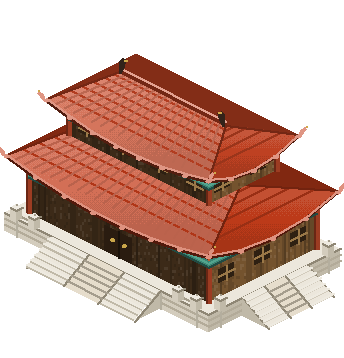
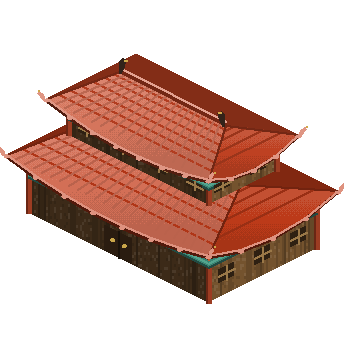
Escaleras como capa baja + fix glitch de muros al pasar un mecenas
- Separo zócalo/escalinata del cuerpo en sprites aparte (bld-X-base): se pintan
  sobre el suelo y por debajo del resto (decoración, muros, edificios, mecenas),
  así dejan de superponerse a elementos que tienen delante.
- hac-iso frame(): solo repinta las estructuras DELANTE de un actor; repintar las
  de detrás dibujaba una estructura trasera sobre su vecina delantera (muros y
  edificios "bugeados" al pasar un mecenas).
- Regenerados los 6 edificios con escalinata (cuerpo + base) y la meta.

Changed region(s): [[0.0, 0.5531, 1.0, 0.9218]]

diff --git a/assets/js/iso-sprites-meta.js b/assets/js/iso-sprites-meta.js
@@ -1,2 +1,2 @@
 /* Generado por tools/gen-iso-sprites.js — NO editar a mano. */
-window.ISO_SPRITES_META = {"bld-pabellon-0":{"ox":64,"oy":88,"w":92,"h":144},"bld-pabellon-1":{"ox":28,"oy":88,"w":92,"h":144},"bld-pabellon-2":{"ox":64,"oy":88,"w":92,"h":144},"bld-pabellon-3":{"ox":28,"oy":88,"w":92,"h":144},"bld-torre-0":{"ox":64,"oy":120,"w":92,"h":176},"bld-torre-1":{"ox":28,"oy":120,"w":92,"h":176},"bld-torre-2":{"ox":64,"oy":120,"w":92,"h":176},"bld-torre-3":{"ox":28,"oy":120,"w":92,"h":176},"bld-pagoda-0":{"ox":64,"oy":134,"w":128,"h":208},"bld-pagoda-1":{"ox":64,"oy":134,"w":128,"h":208},"bld-pagoda-2":{"ox":64,"oy":134,"w":128,"h":208},"bld-pagoda-3":{"ox":64,"oy":134,"w":128,"h":208},"bld-galeria-0":{"ox":100,"oy":84,"w":128,"h":158},"bld-galeria-1":{"ox":28,"oy":84,"w":128,"h":158},"bld-galeria-2":{"ox":100,"oy":84,"w":128,"h":158},"bld-galeria-3":{"ox":28,"oy":84,"w":128,"h":158},"bld-armeria-0":{"ox":64,"oy":82,"w":128,"h":156},"bld-armeria-1":{"ox":64,"oy":82,"w":128,"h":156},"bld-armeria-2":{"ox":64,"oy":82,"w":128,"h":156},"bld-armeria-3":{"ox":64,"oy":82,"w":128,"h":156},"bld-ala-0":{"ox":100,"oy":94,"w":164,"h":186},"bld-ala-1":{"ox":64,"oy":94,"w":164,"h":186},"bld-ala-2":{"ox":100,"oy":94,"w":164,"h":186},"bld-ala-3":{"ox":64,"oy":94,"w":164,"h":186},"bld-templo-0":{"ox":100,"oy":140,"w":164,"h":232},"bld-templo-1":{"ox":64,"oy":140,"w":164,"h":232},"bld-templo-2":{"ox":100,"oy":140,"w":164,"h":232},"bld-templo-3":{"ox":64,"oy":140,"w":164,"h":232},"bld-gran-pagoda-0":{"ox":136,"oy":240,"w":200,"h":350},"bld-gran-pagoda-1":{"ox":64,"oy":240,"w":200,"h":350},"bld-gran-pagoda-2":{"ox":136,"oy":240,"w":200,"h":350},"bld-gran-pagoda-3":{"ox":64,"oy":240,"w":200,"h":350},"bld-salon-0":{"ox":100,"oy":110,"w":200,"h":220},"bld-salon-1":{"ox":100,"oy":110,"w":200,"h":220},"bld-salon-2":{"ox":100,"oy":110,"w":200,"h":220},"bld-salon-3":{"ox":100,"oy":110,"w":200,"h":220},"bld-templo-ancestral-0":{"ox":136,"oy":148,"w":236,"h":276},"bld-templo-ancestral-1":{"ox":100,"oy":148,"w":236,"h":276},"bld-templo-ancestral-2":{"ox":136,"oy":148,"w":236,"h":276},"bld-templo-ancestral-3":{"ox":100,"oy":148,"w":236,"h":276},"bld-salon-gran-0":{"ox":100,"oy":150,"w":236,"h":278},"bld-salon-gran-1":{"ox":136,"oy":150,"w":236,"h":278},"bld-salon-gran-2":{"ox":100,"oy":150,"w":236,"h":278},"bld-salon-gran-3":{"ox":136,"oy":150,"w":236,"h":278},"bld-pabellon-gran-0":{"ox":136,"oy":106,"w":236,"h":234},"bld-pabellon-gran-1":{"ox":100,"oy":106,"w":236,"h":234},"bld-pabellon-gran-2":{"ox":136,"oy":106,"w":236,"h":234},"bld-pabellon-gran-3":{"ox":100,"oy":106,"w":236,"h":234},"bld-salon-corte-0":{"ox":208,"oy":160,"w":308,"h":324},"bld-salon-corte-1":{"ox":100,"oy":160,"w":308,"h":324},"bld-salon-corte-2":{"ox":208,"oy":160,"w":308,"h":324},"bld-salon-corte-3":{"ox":100,"oy":160,"w":308,"h":324},"bld-palacio-0":{"ox":208,"oy":176,"w":344,"h":358},"bld-palacio-1":{"ox":136,"oy":176,"w":344,"h":358},"bld-palacio-2":{"ox":208,"oy":176,"w":344,"h":358},"bld-palacio-3":{"ox":136,"oy":176,"w":344,"h":358},"bld-salon-largo-0":{"ox":172,"oy":158,"w":272,"h":304},"bld-salon-largo-1":{"ox":100,"oy":158,"w":272,"h":304},"bld-salon-largo-2":{"ox":172,"oy":158,"w":272,"h":304},"bld-salon-largo-3":{"ox":100,"oy":158,"w":272,"h":304},"bld-salon-banquete-0":{"ox":244,"oy":168,"w":344,"h":350},"bld-salon-banquete-1":{"ox":100,"oy":168,"w":344,"h":350},"bld-salon-banquete-2":{"ox":244,"oy":168,"w":344,"h":350},"bld-salon-banquete-3":{"ox":100,"oy":168,"w":344,"h":350},"bld-cuartel-0":{"ox":172,"oy":92,"w":308,"h":256},"bld-cuartel-1":{"ox":136,"oy":92,"w":308,"h":256},"bld-cuartel-2":{"ox":172,"oy":92,"w":308,"h":256},"bld-cuartel-3":{"ox":136,"oy":92,"w":308,"h":256},"bld-gran-palacio-0":{"ox":244,"oy":226,"w":380,"h":426},"bld-gran-palacio-1":{"ox":136,"oy":226,"w":380,"h":426},"bld-gran-palacio-2":{"ox":244,"oy":226,"w":380,"h":426},"bld-gran-palacio-3":{"ox":136,"oy":226,"w":380,"h":426},"bld-salon-doble-0":{"ox":280,"oy":170,"w":416,"h":388},"bld-salon-doble-1":{"ox":136,"oy":170,"w":416,"h":388},"bld-salon-doble-2":{"ox":280,"oy":170,"w":416,"h":388},"bld-salon-doble-3":{"ox":136,"oy":170,"w":416,"h":388},"bld-gran-recinto-0":{"ox":280,"oy":228,"w":452,"h":464},"bld-gran-recinto-1":{"ox":172,"oy":228,"w":452,"h":464},"bld-gran-recinto-2":{"ox":280,"oy":228,"w":452,"h":464},"bld-gran-recinto-3":{"ox":172,"oy":228,"w":452,"h":464},"bld-ala-l-0":{"ox":100,"oy":94,"w":200,"h":204},"bld-ala-l-1":{"ox":100,"oy":94,"w":200,"h":204},"bld-ala-l-2":{"ox":100,"oy":94,"w":200,"h":204},"bld-ala-l-3":{"ox":100,"oy":94,"w":200,"h":204},"bld-ala-l-mayor-0":{"ox":136,"oy":100,"w":272,"h":246},"bld-ala-l-mayor-1":{"ox":136,"oy":100,"w":272,"h":246},"bld-ala-l-mayor-2":{"ox":136,"oy":100,"w":272,"h":246},"bld-ala-l-mayor-3":{"ox":136,"oy":100,"w":272,"h":246},"bld-patio-u-0":{"ox":100,"oy":100,"w":272,"h":246},"bld-patio-u-1":{"ox":172,"oy":100,"w":272,"h":246},"bld-patio-u-2":{"ox":100,"oy":100,"w":272,"h":246},"bld-patio-u-3":{"ox":172,"oy":100,"w":272,"h":246},"bld-patio-o-0":{"ox":136,"oy":106,"w":272,"h":252},"bld-patio-o-1":{"ox":136,"oy":106,"w":272,"h":252},"bld-patio-o-2":{"ox":136,"oy":106,"w":272,"h":252},"bld-patio-o-3":{"ox":136,"oy":106,"w":272,"h":252},"bld-bonsai-0":{"ox":42,"oy":64,"w":84,"h":116},"bld-bonsai-1":{"ox":42,"oy":64,"w":84,"h":116},"bld-bonsai-2":{"ox":42,"oy":64,"w":84,"h":116},"bld-bonsai-3":{"ox":42,"oy":64,"w":84,"h":116},"bld-jardin-0":{"ox":114,"oy":64,"w":192,"h":170},"bld-jardin-1":{"ox":78,"oy":64,"w":192,"h":170},"bld-jardin-2":{"ox":114,"oy":64,"w":192,"h":170},"bld-jardin-3":{"ox":78,"oy":64,"w":192,"h":170},"bld-jardin-flores-0":{"ox":150,"oy":64,"w":228,"h":188},"bld-jardin-flores-1":{"ox":78,"oy":64,"w":228,"h":188},"bld-jardin-flores-2":{"ox":150,"oy":64,"w":228,"h":188},"bld-jardin-flores-3":{"ox":78,"oy":64,"w":228,"h":188},"bld-estanque-0":{"ox":114,"oy":64,"w":228,"h":188},"bld-estanque-1":{"ox":114,"oy":64,"w":228,"h":188},"bld-estanque-2":{"ox":114,"oy":64,"w":228,"h":188},"bld-estanque-3":{"ox":114,"oy":64,"w":228,"h":188},"bld-lago-0":{"ox":150,"oy":64,"w":300,"h":224},"bld-lago-1":{"ox":150,"oy":64,"w":300,"h":224},"bld-lago-2":{"ox":150,"oy":64,"w":300,"h":224},"bld-lago-3":{"ox":150,"oy":64,"w":300,"h":224},"bld-farol-0":{"ox":54,"oy":64,"w":108,"h":120},"bld-farol-1":{"ox":54,"oy":64,"w":108,"h":120},"bld-farol-2":{"ox":54,"oy":64,"w":108,"h":120},"bld-farol-3":{"ox":54,"oy":64,"w":108,"h":120},"bld-antorcha-0":{"ox":54,"oy":80,"w":108,"h":136},"bld-antorcha-1":{"ox":54,"oy":80,"w":108,"h":136},"bld-antorcha-2":{"ox":54,"oy":80,"w":108,"h":136},"bld-antorcha-3":{"ox":54,"oy":80,"w":108,"h":136},"bld-brasero-0":{"ox":54,"oy":52,"w":108,"h":108},"bld-brasero-1":{"ox":54,"oy":52,"w":108,"h":108},"bld-brasero-2":{"ox":54,"oy":52,"w":108,"h":108},"bld-brasero-3":{"ox":54,"oy":52,"w":108,"h":108},"bld-ding-0":{"ox":54,"oy":56,"w":108,"h":112},"bld-ding-1":{"ox":54,"oy":56,"w":108,"h":112},"bld-ding-2":{"ox":54,"oy":56,"w":108,"h":112},"bld-ding-3":{"ox":54,"oy":56,"w":108,"h":112},"bld-estandarte-0":{"ox":54,"oy":92,"w":108,"h":148},"bld-estandarte-1":{"ox":54,"oy":92,"w":108,"h":148},"bld-estandarte-2":{"ox":54,"oy":92,"w":108,"h":148},"bld-estandarte-3":{"ox":54,"oy":92,"w":108,"h":148},"bld-pabellon-te-0":{"ox":54,"oy":76,"w":108,"h":132},"bld-pabellon-te-1":{"ox":54,"oy":76,"w":108,"h":132},"bld-pabellon-te-2":{"ox":54,"oy":76,"w":108,"h":132},"bld-pabellon-te-3":{"ox":54,"oy":76,"w":108,"h":132},"bld-yingbi-0":{"ox":102,"oy":76,"w":134,"h":152},"bld-yingbi-1":{"ox":30,"oy":76,"w":134,"h":152},"bld-yingbi-2":{"ox":102,"oy":76,"w":134,"h":152},"bld-yingbi-3":{"ox":30,"oy":76,"w":134,"h":152},"bld-chuihuamen-0":{"ox":66,"oy":68,"w":98,"h":126},"bld-chuihuamen-1":{"ox":30,"oy":68,"w":98,"h":126},"bld-chuihuamen-2":{"ox":66,"oy":68,"w":98,"h":126},"bld-chuihuamen-3":{"ox":30,"oy":68,"w":98,"h":126},"bld-muralla-0":{"ox":30,"oy":52,"w":62,"h":92},"bld-muralla-1":{"ox":30,"oy":52,"w":62,"h":92},"bld-muralla-2":{"ox":30,"oy":52,"w":62,"h":92},"bld-muralla-3":{"ox":30,"oy":52,"w":62,"h":92},"bld-porton-0":{"ox":30,"oy":70,"w":62,"h":110},"bld-porton-1":{"ox":30,"oy":70,"w":62,"h":110},"bld-porton-2":{"ox":30,"oy":70,"w":62,"h":110},"bld-porton-3":{"ox":30,"oy":70,"w":62,"h":110},"tile-grass":{"ox":38,"oy":4,"w":76,"h":44},"tile-grass2":{"ox":38,"oy":4,"w":76,"h":44}};
+window.ISO_SPRITES_META = {"bld-pabellon-0":{"ox":64,"oy":88,"w":92,"h":144},"bld-pabellon-1":{"ox":28,"oy":88,"w":92,"h":144},"bld-pabellon-2":{"ox":64,"oy":88,"w":92,"h":144},"bld-pabellon-3":{"ox":28,"oy":88,"w":92,"h":144},"bld-torre-0":{"ox":64,"oy":120,"w":92,"h":176},"bld-torre-1":{"ox":28,"oy":120,"w":92,"h":176},"bld-torre-2":{"ox":64,"oy":120,"w":92,"h":176},"bld-torre-3":{"ox":28,"oy":120,"w":92,"h":176},"bld-pagoda-0":{"ox":64,"oy":134,"w":128,"h":208},"bld-pagoda-1":{"ox":64,"oy":134,"w":128,"h":208},"bld-pagoda-2":{"ox":64,"oy":134,"w":128,"h":208},"bld-pagoda-3":{"ox":64,"oy":134,"w":128,"h":208},"bld-galeria-0":{"ox":100,"oy":84,"w":128,"h":158},"bld-galeria-1":{"ox":28,"oy":84,"w":128,"h":158},"bld-galeria-2":{"ox":100,"oy":84,"w":128,"h":158},"bld-galeria-3":{"ox":28,"oy":84,"w":128,"h":158},"bld-armeria-0":{"ox":64,"oy":82,"w":128,"h":156},"bld-armeria-1":{"ox":64,"oy":82,"w":128,"h":156},"bld-armeria-2":{"ox":64,"oy":82,"w":128,"h":156},"bld-armeria-3":{"ox":64,"oy":82,"w":128,"h":156},"bld-ala-0":{"ox":100,"oy":94,"w":164,"h":186},"bld-ala-1":{"ox":64,"oy":94,"w":164,"h":186},"bld-ala-2":{"ox":100,"oy":94,"w":164,"h":186},"bld-ala-3":{"ox":64,"oy":94,"w":164,"h":186},"bld-templo-0":{"ox":100,"oy":140,"w":164,"h":232},"bld-templo-1":{"ox":64,"oy":140,"w":164,"h":232},"bld-templo-2":{"ox":100,"oy":140,"w":164,"h":232},"bld-templo-3":{"ox":64,"oy":140,"w":164,"h":232},"bld-gran-pagoda-0":{"ox":136,"oy":240,"w":200,"h":350},"bld-gran-pagoda-1":{"ox":64,"oy":240,"w":200,"h":350},"bld-gran-pagoda-2":{"ox":136,"oy":240,"w":200,"h":350},"bld-gran-pagoda-3":{"ox":64,"oy":240,"w":200,"h":350},"bld-salon-0":{"ox":100,"oy":110,"w":200,"h":220},"bld-salon-1":{"ox":100,"oy":110,"w":200,"h":220},"bld-salon-2":{"ox":100,"oy":110,"w":200,"h":220},"bld-salon-3":{"ox":100,"oy":110,"w":200,"h":220},"bld-templo-ancestral-0":{"ox":136,"oy":148,"w":236,"h":276},"bld-templo-ancestral-1":{"ox":100,"oy":148,"w":236,"h":276},"bld-templo-ancestral-2":{"ox":136,"oy":148,"w":236,"h":276},"bld-templo-ancestral-3":{"ox":100,"oy":148,"w":236,"h":276},"bld-salon-gran-0":{"ox":100,"oy":150,"w":236,"h":278},"bld-salon-gran-1":{"ox":136,"oy":150,"w":236,"h":278},"bld-salon-gran-2":{"ox":100,"oy":150,"w":236,"h":278},"bld-salon-gran-3":{"ox":136,"oy":150,"w":236,"h":278},"bld-pabellon-gran-0":{"ox":136,"oy":106,"w":236,"h":234},"bld-pabellon-gran-1":{"ox":100,"oy":106,"w":236,"h":234},"bld-pabellon-gran-2":{"ox":136,"oy":106,"w":236,"h":234},"bld-pabellon-gran-3":{"ox":100,"oy":106,"w":236,"h":234},"bld-salon-corte-0":{"ox":208,"oy":160,"w":308,"h":324},"bld-salon-corte-base-0":{"ox":208,"oy":160,"w":308,"h":324},"bld-salon-corte-1":{"ox":100,"oy":160,"w":308,"h":324},"bld-salon-corte-base-1":{"ox":100,"oy":160,"w":308,"h":324},"bld-salon-corte-2":{"ox":208,"oy":160,"w":308,"h":324},"bld-salon-corte-base-2":{"ox":208,"oy":160,"w":308,"h":324},"bld-salon-corte-3":{"ox":100,"oy":160,"w":308,"h":324},"bld-salon-corte-base-3":{"ox":100,"oy":160,"w":308,"h":324},"bld-palacio-0":{"ox":208,"oy":176,"w":344,"h":358},"bld-palacio-base-0":{"ox":208,"oy":176,"w":344,"h":358},"bld-palacio-1":{"ox":136,"oy":176,"w":344,"h":358},"bld-palacio-base-1":{"ox":136,"oy":176,"w":344,"h":358},"bld-palacio-2":{"ox":208,"oy":176,"w":344,"h":358},"bld-palacio-base-2":{"ox":208,"oy":176,"w":344,"h":358},"bld-palacio-3":{"ox":136,"oy":176,"w":344,"h":358},"bld-palacio-base-3":{"ox":136,"oy":176,"w":344,"h":358},"bld-salon-largo-0":{"ox":172,"oy":158,"w":272,"h":304},"bld-salon-largo-1":{"ox":100,"oy":158,"w":272,"h":304},"bld-salon-largo-2":{"ox":172,"oy":158,"w":272,"h":304},"bld-salon-largo-3":{"ox":100,"oy":158,"w":272,"h":304},"bld-salon-banquete-0":{"ox":244,"oy":168,"w":344,"h":350},"bld-salon-banquete-base-0":{"ox":244,"oy":168,"w":344,"h":350},"bld-salon-banquete-1":{"ox":100,"oy":168,"w":344,"h":350},"bld-salon-banquete-base-1":{"ox":100,"oy":168,"w":344,"h":350},"bld-salon-banquete-2":{"ox":244,"oy":168,"w":344,"h":350},"bld-salon-banquete-base-2":{"ox":244,"oy":168,"w":344,"h":350},"bld-salon-banquete-3":{"ox":100,"oy":168,"w":344,"h":350},"bld-salon-banquete-base-3":{"ox":100,"oy":168,"w":344,"h":350},"bld-cuartel-0":{"ox":172,"oy":92,"w":308,"h":256},"bld-cuartel-1":{"ox":136,"oy":92,"w":308,"h":256},"bld-cuartel-2":{"ox":172,"oy":92,"w":308,"h":256},"bld-cuartel-3":{"ox":136,"oy":92,"w":308,"h":256},"bld-gran-palacio-0":{"ox":244,"oy":226,"w":380,"h":426},"bld-gran-palacio-base-0":{"ox":244,"oy":226,"w":380,"h":426},"bld-gran-palacio-1":{"ox":136,"oy":226,"w":380,"h":426},"bld-gran-palacio-base-1":{"ox":136,"oy":226,"w":380,"h":426},"bld-gran-palacio-2":{"ox":244,"oy":226,"w":380,"h":426},"bld-gran-palacio-base-2":{"ox":244,"oy":226,"w":380,"h":426},"bld-gran-palacio-3":{"ox":136,"oy":226,"w":380,"h":426},"bld-gran-palacio-base-3":{"ox":136,"oy":226,"w":380,"h":426},"bld-salon-doble-0":{"ox":280,"oy":170,"w":416,"h":388},"bld-salon-doble-base-0":{"ox":280,"oy":170,"w":416,"h":388},"bld-salon-doble-1":{"ox":136,"oy":170,"w":416,"h":388},"bld-salon-doble-base-1":{"ox":136,"oy":170,"w":416,"h":388},"bld-salon-doble-2":{"ox":280,"oy":170,"w":416,"h":388},"bld-salon-doble-base-2":{"ox":280,"oy":170,"w":416,"h":388},"bld-salon-doble-3":{"ox":136,"oy":170,"w":416,"h":388},"bld-salon-doble-base-3":{"ox":136,"oy":170,"w":416,"h":388},"bld-gran-recinto-0":{"ox":280,"oy":228,"w":452,"h":464},"bld-gran-recinto-base-0":{"ox":280,"oy":228,"w":452,"h":464},"bld-gran-recinto-1":{"ox":172,"oy":228,"w":452,"h":464},"bld-gran-recinto-base-1":{"ox":172,"oy":228,"w":452,"h":464},"bld-gran-recinto-2":{"ox":280,"oy":228,"w":452,"h":464},"bld-gran-recinto-base-2":{"ox":280,"oy":228,"w":452,"h":464},"bld-gran-recinto-3":{"ox":172,"oy":228,"w":452,"h":464},"bld-gran-recinto-base-3":{"ox":172,"oy":228,"w":452,"h":464},"bld-ala-l-0":{"ox":100,"oy":94,"w":200,"h":204},"bld-ala-l-1":{"ox":100,"oy":94,"w":200,"h":204},"bld-ala-l-2":{"ox":100,"oy":94,"w":200,"h":204},"bld-ala-l-3":{"ox":100,"oy":94,"w":200,"h":204},"bld-ala-l-mayor-0":{"ox":136,"oy":100,"w":272,"h":246},"bld-ala-l-mayor-1":{"ox":136,"oy":100,"w":272,"h":246},"bld-ala-l-mayor-2":{"ox":136,"oy":100,"w":272,"h":246},"bld-ala-l-mayor-3":{"ox":136,"oy":100,"w":272,"h":246},"bld-patio-u-0":{"ox":100,"oy":100,"w":272,"h":246},"bld-patio-u-1":{"ox":172,"oy":100,"w":272,"h":246},"bld-patio-u-2":{"ox":100,"oy":100,"w":272,"h":246},"bld-patio-u-3":{"ox":172,"oy":100,"w":272,"h":246},"bld-patio-o-0":{"ox":136,"oy":106,"w":272,"h":252},"bld-patio-o-1":{"ox":136,"oy":106,"w":272,"h":252},"bld-patio-o-2":{"ox":136,"oy":106,"w":272,"h":252},"bld-patio-o-3":{"ox":136,"oy":106,"w":272,"h":252},"bld-bonsai-0":{"ox":42,"oy":64,"w":84,"h":116},"bld-bonsai-1":{"ox":42,"oy":64,"w":84,"h":116},"bld-bonsai-2":{"ox":42,"oy":64,"w":84,"h":116},"bld-bonsai-3":{"ox":42,"oy":64,"w":84,"h":116},"bld-jardin-0":{"ox":114,"oy":64,"w":192,"h":170},"bld-jardin-1":{"ox":78,"oy":64,"w":192,"h":170},"bld-jardin-2":{"ox":114,"oy":64,"w":192,"h":170},"bld-jardin-3":{"ox":78,"oy":64,"w":192,"h":170},"bld-jardin-flores-0":{"ox":150,"oy":64,"w":228,"h":188},"bld-jardin-flores-1":{"ox":78,"oy":64,"w":228,"h":188},"bld-jardin-flores-2":{"ox":150,"oy":64,"w":228,"h":188},"bld-jardin-flores-3":{"ox":78,"oy":64,"w":228,"h":188},"bld-estanque-0":{"ox":114,"oy":64,"w":228,"h":188},"bld-estanque-1":{"ox":114,"oy":64,"w":228,"h":188},"bld-estanque-2":{"ox":114,"oy":64,"w":228,"h":188},"bld-estanque-3":{"ox":114,"oy":64,"w":228,"h":188},"bld-lago-0":{"ox":150,"oy":64,"w":300,"h":224},"bld-lago-1":{"ox":150,"oy":64,"w":300,"h":224},"bld-lago-2":{"ox":150,"oy":64,"w":300,"h":224},"bld-lago-3":{"ox":150,"oy":64,"w":300,"h":224},"bld-farol-0":{"ox":54,"oy":64,"w":108,"h":120},"bld-farol-1":{"ox":54,"oy":64,"w":108,"h":120},"bld-farol-2":{"ox":54,"oy":64,"w":108,"h":120},"bld-farol-3":{"ox":54,"oy":64,"w":108,"h":120},"bld-antorcha-0":{"ox":54,"oy":80,"w":108,"h":136},"bld-antorcha-1":{"ox":54,"oy":80,"w":108,"h":136},"bld-antorcha-2":{"ox":54,"oy":80,"w":108,"h":136},"bld-antorcha-3":{"ox":54,"oy":80,"w":108,"h":136},"bld-brasero-0":{"ox":54,"oy":52,"w":108,"h":108},"bld-brasero-1":{"ox":54,"oy":52,"w":108,"h":108},"bld-brasero-2":{"ox":54,"oy":52,"w":108,"h":108},"bld-brasero-3":{"ox":54,"oy":52,"w":108,"h":108},"bld-ding-0":{"ox":54,"oy":56,"w":108,"h":112},"bld-ding-1":{"ox":54,"oy":56,"w":108,"h":112},"bld-ding-2":{"ox":54,"oy":56,"w":108,"h":112},"bld-ding-3":{"ox":54,"oy":56,"w":108,"h":112},"bld-estandarte-0":{"ox":54,"oy":92,"w":108,"h":148},"bld-estandarte-1":{"ox":54,"oy":92,"w":108,"h":148},"bld-estandarte-2":{"ox":54,"oy":92,"w":108,"h":148},"bld-estandarte-3":{"ox":54,"oy":92,"w":108,"h":148},"bld-pabellon-te-0":{"ox":54,"oy":76,"w":108,"h":132},"bld-pabellon-te-1":{"ox":54,"oy":76,"w":108,"h":132},"bld-pabellon-te-2":{"ox":54,"oy":76,"w":108,"h":132},"bld-pabellon-te-3":{"ox":54,"oy":76,"w":108,"h":132},"bld-yingbi-0":{"ox":102,"oy":76,"w":134,"h":152},"bld-yingbi-1":{"ox":30,"oy":76,"w":134,"h":152},"bld-yingbi-2":{"ox":102,"oy":76,"w":134,"h":152},"bld-yingbi-3":{"ox":30,"oy":76,"w":134,"h":152},"bld-chuihuamen-0":{"ox":66,"oy":68,"w":98,"h":126},"bld-chuihuamen-1":{"ox":30,"oy":68,"w":98,"h":126},"bld-chuihuamen-2":{"ox":66,"oy":68,"w":98,"h":126},"bld-chuihuamen-3":{"ox":30,"oy":68,"w":98,"h":126},"bld-muralla-0":{"ox":30,"oy":52,"w":62,"h":92},"bld-muralla-1":{"ox":30,"oy":52,"w":62,"h":92},"bld-muralla-2":{"ox":30,"oy":52,"w":62,"h":92},"bld-muralla-3":{"ox":30,"oy":52,"w":62,"h":92},"bld-porton-0":{"ox":30,"oy":70,"w":62,"h":110},"bld-porton-1":{"ox":30,"oy":70,"w":62,"h":110},"bld-porton-2":{"ox":30,"oy":70,"w":62,"h":110},"bld-porton-3":{"ox":30,"oy":70,"w":62,"h":110},"tile-grass":{"ox":38,"oy":4,"w":76,"h":44},"tile-grass2":{"ox":38,"oy":4,"w":76,"h":44}};

diff --git a/tools/gen-iso-sprites.js b/tools/gen-iso-sprites.js
@@ -129,7 +129,9 @@ const PAL = {
 
 // ── Dibujo de un edificio ────────────────────────────────────────────────
 // cfg: { w, h, roof, baseH, bodyH, roofH, stories, bodyH2, roofH2 }
-function drawBuilding(cfg) {
+function drawBuilding(cfg, layer) {
+  layer = layer || 'all';
+  const wantBase = layer !== 'body', wantBody = layer !== 'base';
   const { w, h, roof } = cfg;
   const baseH = cfg.baseH ?? 5;
   const bodyH = cfg.bodyH ?? 14;
@@ -323,20 +325,21 @@ function drawBuilding(cfg) {
   if (cfg.wings) {
     const order = cfg.wings.slice().sort((a,b)=>(a.x1+a.y1)-(b.x1+b.y1)||(a.x0+a.y0)-(b.x0+b.y0));
     order.forEach(wg=>{
-      prism(wg.x0,wg.y0,wg.x1,wg.y1, ovB, 0, baseH, PAL.stoneT, dark(PAL.stone,.06), PAL.stone, PAL.stoneD, 'stone');
-      body(wg.x0,wg.y0,wg.x1,wg.y1, baseH, bodyH, wg.door);
-      hipRoof(wg.x0,wg.y0,wg.x1,wg.y1, baseH+bodyH, roofH, roof);
+      if (wantBase) prism(wg.x0,wg.y0,wg.x1,wg.y1, ovB, 0, baseH, PAL.stoneT, dark(PAL.stone,.06), PAL.stone, PAL.stoneD, 'stone');
+      if (wantBody) { body(wg.x0,wg.y0,wg.x1,wg.y1, baseH, bodyH, wg.door); hipRoof(wg.x0,wg.y0,wg.x1,wg.y1, baseH+bodyH, roofH, roof); }
     });
     return { buf, ox: OX, oy: OY };
   }
 
   let z = 0;
-  if (cfg.stairs) {
-    prism(0,0,w-1,h-1, tov, 0, baseH, MB.t, MB.l, MB.r, MB.edge);   // plinto de mármol
-    marbleCourses((h-1)+tov, (w-1)+tov);
-    stairFlight('S'); stairFlight('E');
-  } else {
-    prism(0,0,w-1,h-1, ovB, z, z+baseH, PAL.stoneT, dark(PAL.stone,.06), PAL.stone, PAL.stoneD, 'stone');
+  if (wantBase) {
+    if (cfg.stairs) {
+      prism(0,0,w-1,h-1, tov, 0, baseH, MB.t, MB.l, MB.r, MB.edge);
+      marbleCourses((h-1)+tov, (w-1)+tov);
+      stairFlight('S'); stairFlight('E');
+    } else {
+      prism(0,0,w-1,h-1, ovB, z, z+baseH, PAL.stoneT, dark(PAL.stone,.06), PAL.stone, PAL.stoneD, 'stone');
+    }
   }
   z += baseH;
 
@@ -384,23 +387,20 @@ function drawBuilding(cfg) {
     } else { for(let gx=x0; gx<x1; gx++) winY(gx); }
   }
 
-  body(0,0,w-1,h-1, z, bodyH, cfg.door);
-  hipRoof(0,0,w-1,h-1, z+bodyH, roofH, roof);
-
-  // Pisos superiores: cada uno encoge (inset) y lleva su propio alero (sin
-  // puerta). Se omite el piso si quedaría sin anchura. Sirve para pagodas de
-  // varios aleros y para tejados dobles de templos y salones.
-  let zc = z + bodyH + roofH - 1;
-  let ins = tier0Ins;
-  tierList.forEach((ti) => {
-    if ((w - 1 - ins) - ins < -0.16 || (h - 1 - ins) - ins < -0.16) return;
-    body(ins, ins, w - 1 - ins, h - 1 - ins, zc, ti.bodyH, null);
-    hipRoof(ins, ins, w - 1 - ins, h - 1 - ins, zc + ti.bodyH, ti.roofH, light(roof, .04));
-    zc += ti.bodyH + ti.roofH - 1;
-    ins += tierIns;
-  });
-
-  if (cfg.stairs) balustrade();      // balaustrada de mármol en primer plano
+  if (wantBody) {
+    body(0,0,w-1,h-1, z, bodyH, cfg.door);
+    hipRoof(0,0,w-1,h-1, z+bodyH, roofH, roof);
+    let zc = z + bodyH + roofH - 1;
+    let ins = tier0Ins;
+    tierList.forEach((ti) => {
+      if ((w - 1 - ins) - ins < -0.16 || (h - 1 - ins) - ins < -0.16) return;
+      body(ins, ins, w - 1 - ins, h - 1 - ins, zc, ti.bodyH, null);
+      hipRoof(ins, ins, w - 1 - ins, h - 1 - ins, zc + ti.bodyH, ti.roofH, light(roof, .04));
+      zc += ti.bodyH + ti.roofH - 1;
+      ins += tierIns;
+    });
+  }
+  if (cfg.stairs && wantBase) balustrade();
   return { buf, ox: OX, oy: OY };
 }
 
@@ -937,7 +937,15 @@ EDIFICIOS.forEach(e=>{
     { w:e.w, h:e.h, door:null },  // rot 2: puerta a la izquierda (-x, de espaldas)
     { w:e.h, h:e.w, door:null }   // rot 3: puerta arriba (-y, de espaldas)
   ];
-  variants.forEach((v,r)=> save('bld-'+e.id+'-'+r, drawBuilding({ ...e, ...v })));
+  variants.forEach((v,r)=>{
+    const cfg = { ...e, ...v };
+    if (e.stairs) {
+      save('bld-'+e.id+'-'+r, drawBuilding(cfg, 'body'));
+      save('bld-'+e.id+'-base-'+r, drawBuilding(cfg, 'base'));
+    } else {
+      save('bld-'+e.id+'-'+r, drawBuilding(cfg, 'all'));
+    }
+  });
 });
 
 // Compuestos (L/U/anillo): rota las alas por las 4 orientaciones y hornea.

diff --git a/assets/js/hac-iso.js b/assets/js/hac-iso.js
@@ -20,7 +20,7 @@ const HacIso = (function () {
   const TOP_MARGIN = 132;             // hueco arriba para edificios altos, murallas y torres
   const PAD_X = 40;                   // margen lateral para murallas y paseo de ronda
   const SPRITE_BASE = 'assets/img/iso/';
-  const SPRITE_VER = '21';  // súbelo al regenerar los PNG (cache-busting)
+  const SPRITE_VER = '22';  // súbelo al regenerar los PNG (cache-busting)
 
   // ── Color helpers (para el placeholder) ─────────────────────────────────
   const { hexToRgb, clamp255: cl } = HacUtil;
@@ -568,6 +568,12 @@ const HacIso = (function () {
       if (Z[3] <= A[1] + 1e-6) return false;
       return (A[2] + A[3]) < (Z[2] + Z[3]);     // solapan: por esquina delantera
     };
+    // Zócalo/escalinata de los edificios que lo tienen: capa baja, sobre el
+    // suelo y bajo el resto (decoración, muros, edificios, mecenas).
+    lista.filter(c => !isFlat(c) && META['bld-' + c.tipo + '-base-' + (((c.rot || 0) % 4 + 4) % 4)])
+      .sort((a, b) => flatSort(a) - flatSort(b) || a.pos[0] - b.pos[0])
+      .forEach(drawBaseSprite);
+
     drawList.sort((p, q) => before(p.box, q.box) ? -1 : (before(q.box, p.box) ? 1 : 0));
     drawList.forEach(d => d.draw());
 
@@ -619,6 +625,15 @@ const HacIso = (function () {
       if (!img || !m) { placeholder(c); return; }
       // El sprite está horneado a SCALE× (meta en px de dispositivo). Lo pintamos
       // a tamaño NATIVO en coords de dispositivo para que quede nítido (1:1).
+      g.setTransform(1, 0, 0, 1, 0, 0);
+      g.drawImage(img, Math.round(X(c.pos[0], c.pos[1]) * SCALE - m.ox), Math.round(Y(c.pos[0], c.pos[1]) * SCALE - m.oy));
+      g.setTransform(SCALE, 0, 0, SCALE, 0, 0);
+    }
+
+    function drawBaseSprite(c) {
+      const key = 'bld-' + c.tipo + '-base-' + (((c.rot || 0) % 4 + 4) % 4);
+      const img = SPRITES[key], m = META[key];
+      if (!img || !m) return;
       g.setTransform(1, 0, 0, 1, 0, 0);
       g.drawImage(img, Math.round(X(c.pos[0], c.pos[1]) * SCALE - m.ox), Math.round(Y(c.pos[0], c.pos[1]) * SCALE - m.oy));
       g.setTransform(SCALE, 0, 0, SCALE, 0, 0);
@@ -690,7 +705,9 @@ const HacIso = (function () {
     // empata bajo `before`, que no es orden total) → parpadeo/solape en las
     // murallas y patios. En su lugar, insertamos a cada actor en su hueco de
     // profundidad SIN tocar el orden de las estructuras.
-    const occ = acts.length ? sc.drawList.filter(d => acts.some(a => ov(d.box, a.fbox))) : [];
+    // Solo se repintan estructuras DELANTE de algún actor; repintar las de detrás
+    // las dibujaba sobre su vecina delantera (glitch de muros/edificios).
+    const occ = acts.length ? sc.drawList.filter(d => acts.some(a => sc.before(a.box, d.box) && ov(d.box, a.fbox))) : [];
     const render = occ.slice();
     acts.sort((p, q) => sc.before(p.box, q.box) ? -1 : (sc.before(q.box, p.box) ? 1 : 0));
     acts.forEach(a => {

diff --git a/hacienda.html b/hacienda.html
@@ -37,7 +37,7 @@
 <script src="assets/js/hac-personajes.js?v=1"></script>
 <script src="assets/js/hac-render.js?v=3"></script>
 <script src="assets/js/hac-pixel.js?v=3"></script>
-<script src="assets/js/iso-sprites-meta.js?v=13"></script>
+<script src="assets/js/iso-sprites-meta.js?v=14"></script>
 <script src="assets/js/hac-flora.js?v=1"></script>
 <script src="assets/js/hac-iso.js?v=48"></script>
 <script src="assets/js/hac-dialog.js?v=1"></script>
